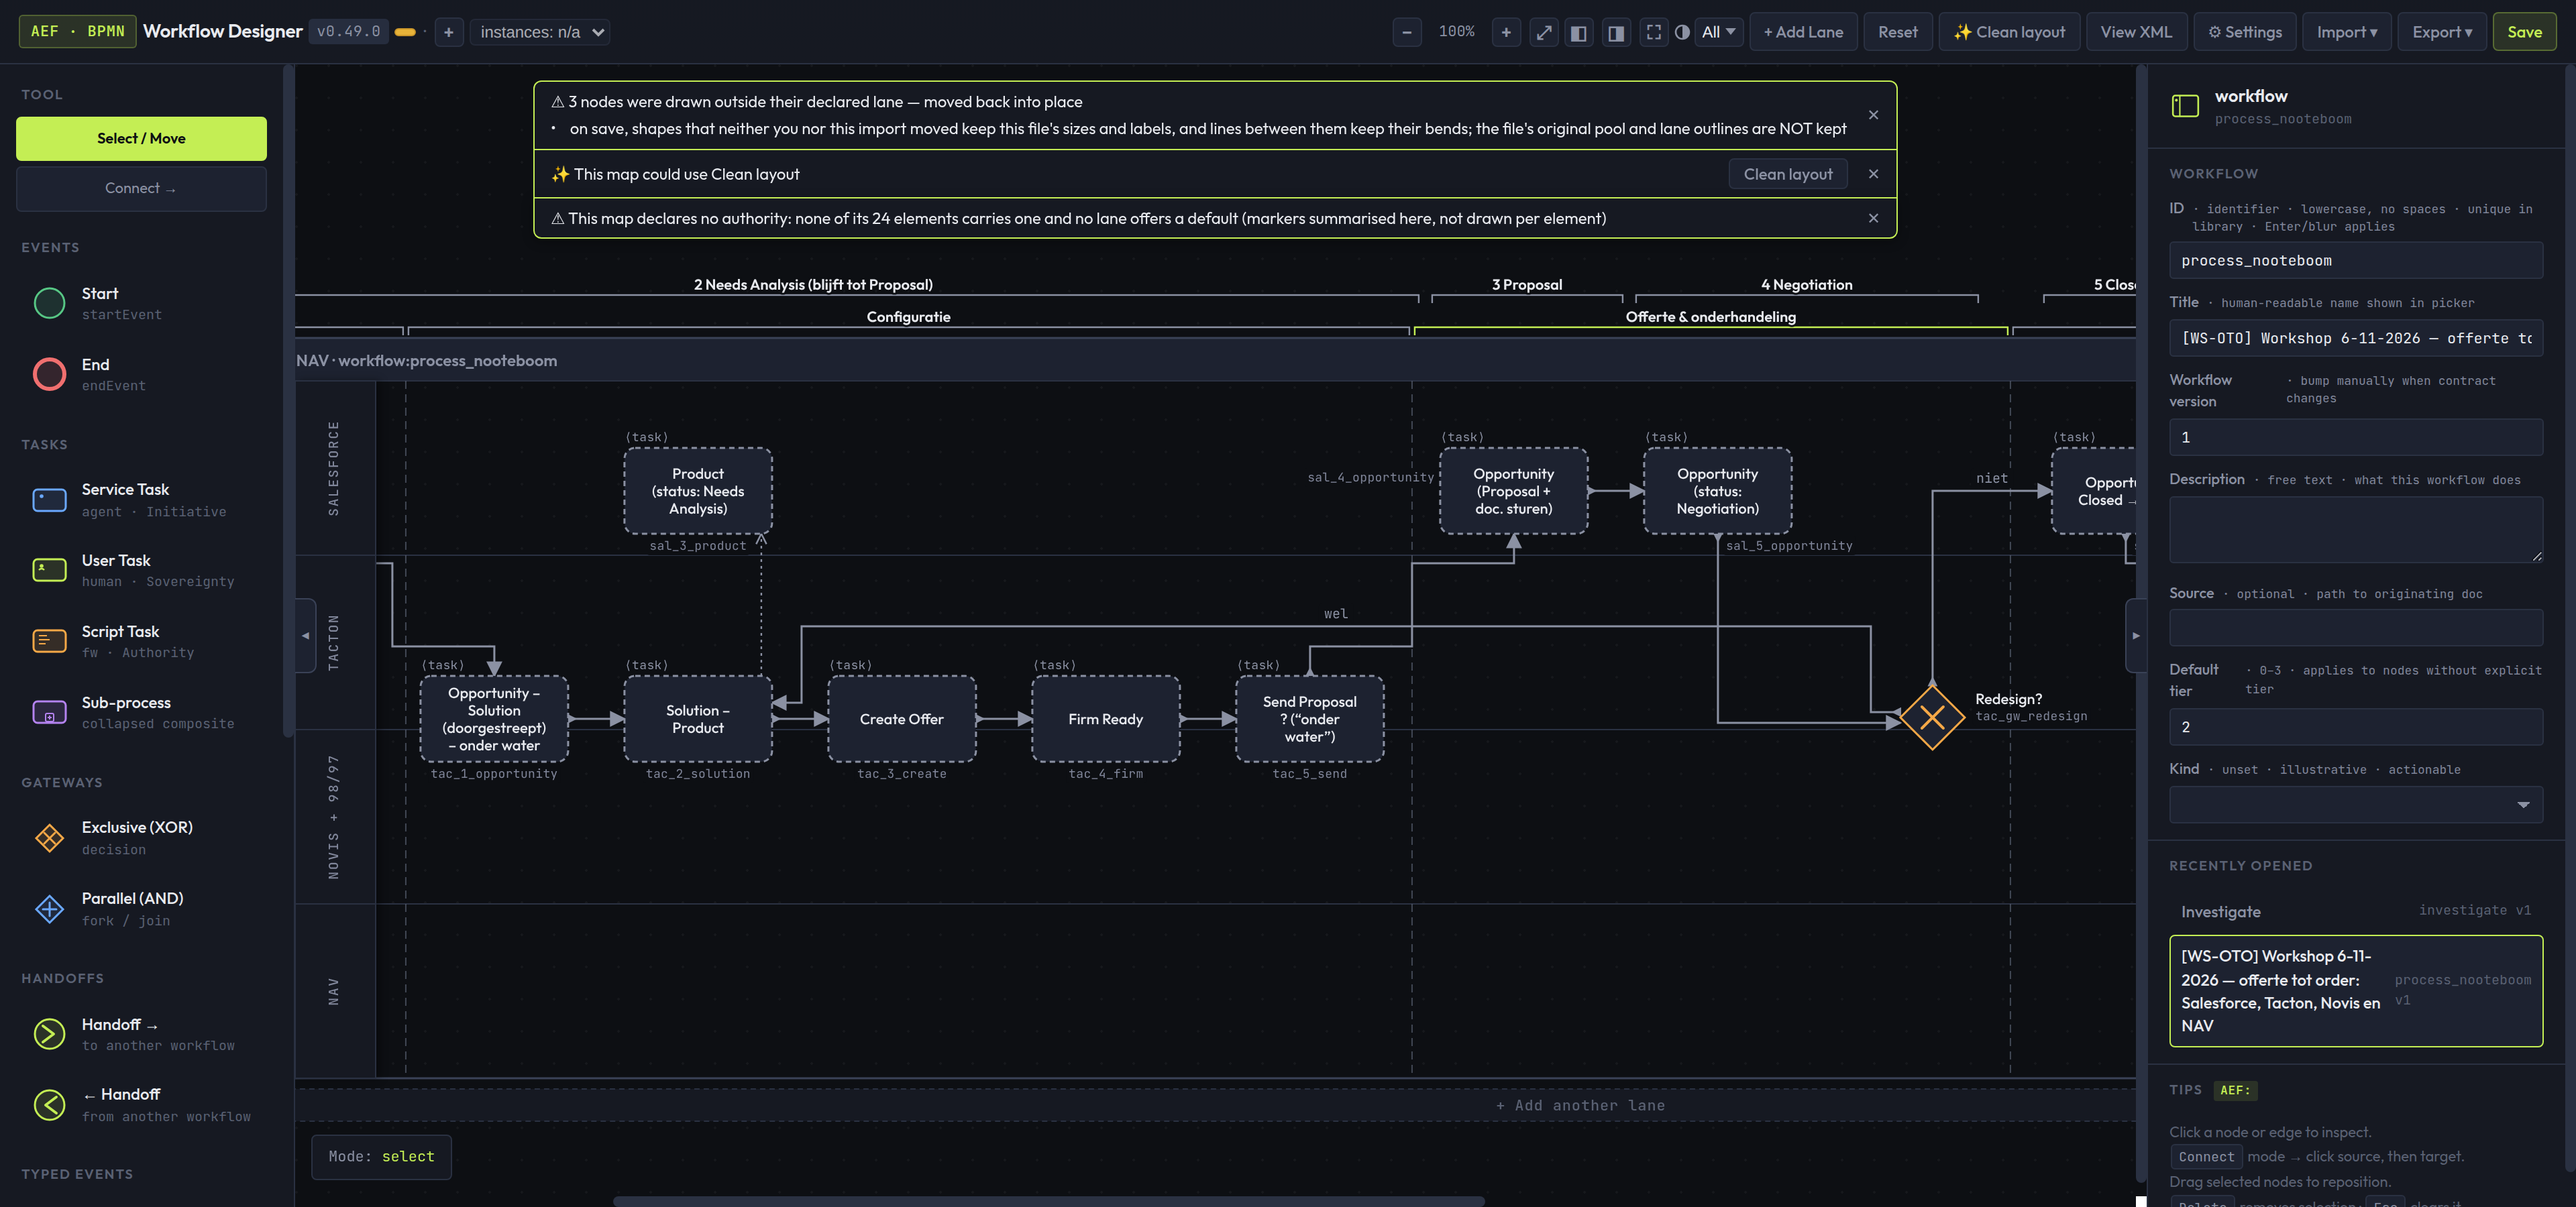
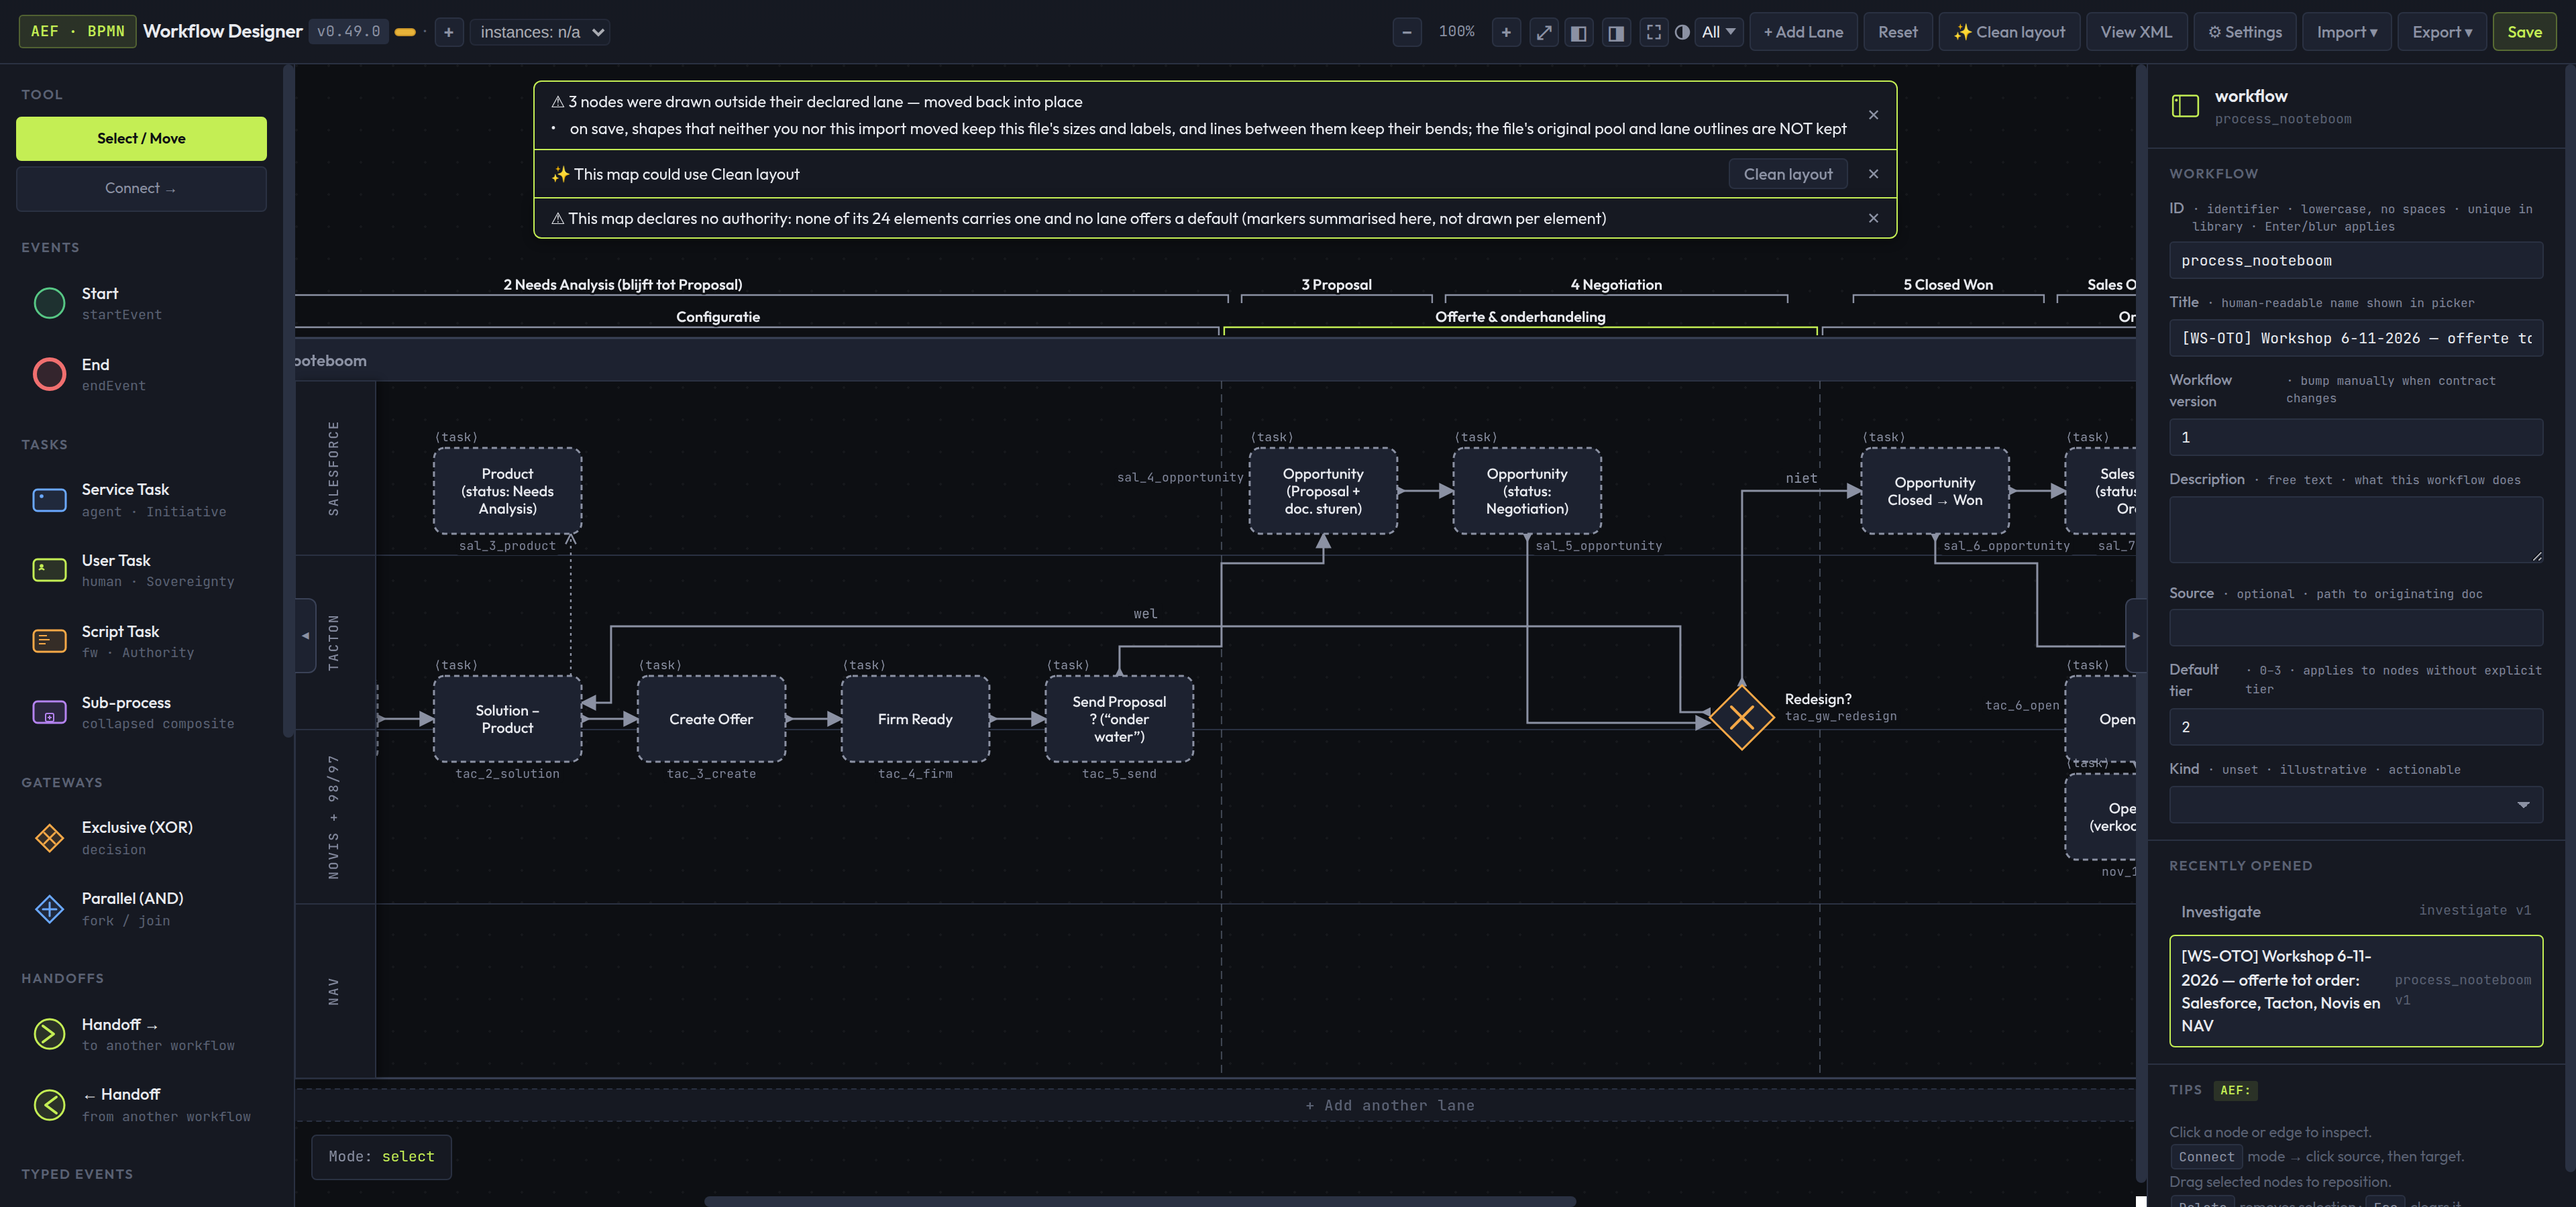
T-1505: shots — idle baseline close-up, moved shot centred and zoomed until both phase names fit (1024); C1 asserts the handle's col-resize cursor (reviewer amber: no pointer in the shots, 1024 result out of view)

diff --git a/.tasks/active/T-1505-phases-slice-c-t-1491-go-drag-a-phase-bo.md b/.tasks/active/T-1505-phases-slice-c-t-1491-go-drag-a-phase-bo.md
@@ -42,7 +42,7 @@ related_tasks: []
 #                                 # session from consuming the captured→started-work transition the demo
 #                                 # worker expects to drive. Origin OBS-057.
 created: 2026-11-24T11:08:18Z
-last_update: 2026-11-25T11:27:48Z
+last_update: 2026-11-25T11:36:16Z
 date_finished:
 # revisit_at: YYYY-MM-DD          # T-1451: set on DEFER decisions to enable G-053 daily revisit scan
 # revisit_evidence_needed:        # T-1451: one-line description of what evidence makes the revisit actionable
@@ -147,10 +147,12 @@ to a neighbour (walkthrough step 7).
   **Steps:**
   1. The map is Greenfield's sample `tests/fixtures/greenfield/ws-otb-fasen-voorbeeld.bpmn` (process `process_nooteboom`;
      row 1 'Fase', row 2 'Fase in Salesforce'). In `docs/reports/T-1505-shots/`, at 1024/1440/1920:
-     `handle-hover-{W}.png` and `handle-hover-closeup-{W}.png` (the pointer on the edge Configuratie | Offerte &
-     onderhandeling: the accent bar that says it can be dragged), `dragging-{W}.png` (mid-drag: the dashed line where
-     the boundary will land, at a gap between steps), `moved-{W}.png` (after the release: the brackets and the dashed
-     divider through the lanes at the new place)
+     `handle-idle-closeup-{W}.png` (the edge Configuratie | Offerte & onderhandeling with the pointer away: the
+     baseline), `handle-hover-{W}.png` and `handle-hover-closeup-{W}.png` (the pointer on that edge: the accent bar that
+     says it can be dragged; a screenshot never draws the pointer itself, so the cursor is asserted instead: harness C1
+     reads `col-resize` on the handle), `dragging-{W}.png` (mid-drag: the dashed line where the boundary will land, at a
+     gap between steps), `moved-{W}.png` (after the release, centred on the new boundary and zoomed out until both
+     neighbouring phase names are in view: the brackets and the dashed divider through the lanes at the new place)
   2. Judge: is the handle discoverable on hover; is the landing place clear before release; does the result read; is
      anything clipped or overlapping
   **Expected:** a person who wants a phase to end later finds the edge, drags it, and sees it land between two steps.
